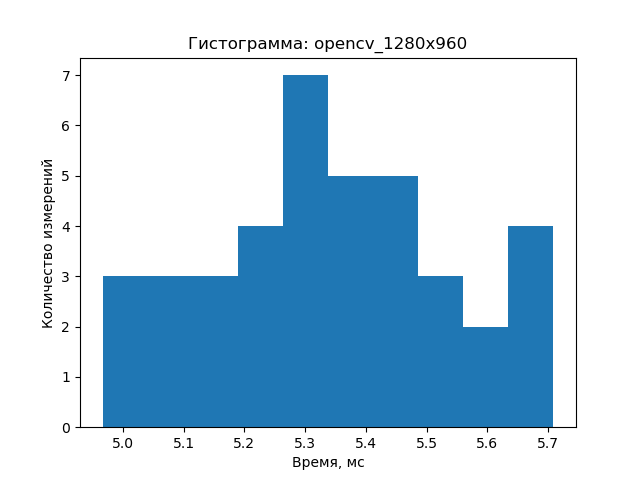
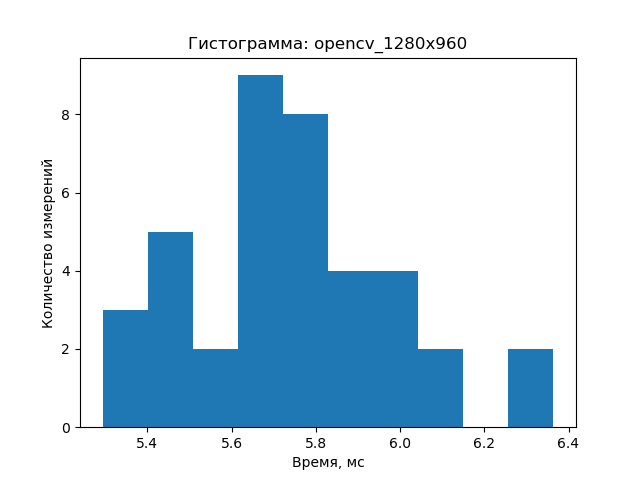
feat: automatic rejection of outliers using the Chovene criterion in the analysis script

diff --git a/experiments/experiment_analysis.py b/experiments/experiment_analysis.py
@@ -28,6 +28,23 @@ def read_measurements_by_size(file_name):
         measurements_by_size[size] = np.array(measurements_by_size[size])
     return measurements_by_size
 
+def remove_outliers(measurements):
+    # Критерий Шовене
+    count = len(measurements)
+    mean_value = np.mean(measurements)
+    standard_deviation = np.std(measurements, ddof=1)
+
+    if standard_deviation == 0:
+        return measurements, np.array([])
+
+    deviations_in_sigmas = np.abs(measurements - mean_value) / standard_deviation
+    probabilities = 2 * (1 - stats.norm.cdf(deviations_in_sigmas))
+    is_outlier = count * probabilities < 0.5
+
+    kept = measurements[~is_outlier]
+    removed = measurements[is_outlier]
+    return kept, removed
+
 def round_error(error):
     # Округляем погрешность до одной значащей цифры (или до двух, если первая
     # значащая цифра - единица)
@@ -49,7 +66,15 @@ def format_value(value, number_of_decimals):
 
 def analyze_measurements(measurements, name):
     print("Анализ серии измерений:", name)
-    print("Количество измерений:", len(measurements))
+    print("Количество измерений до отсева выбросов:", len(measurements))
+
+    # Отсев выбросов по критерию Шовене до построения статистик
+    measurements, removed = remove_outliers(measurements)
+    if len(removed) > 0:
+        print("Удалено выбросов:", len(removed),
+              "(значения:", ", ".join(format(value, ".1f") for value in removed),
+              "мс)")
+    print("Количество измерений после отсева выбросов:", len(measurements))
 
     # Строим гистограмму
     plt.figure()
